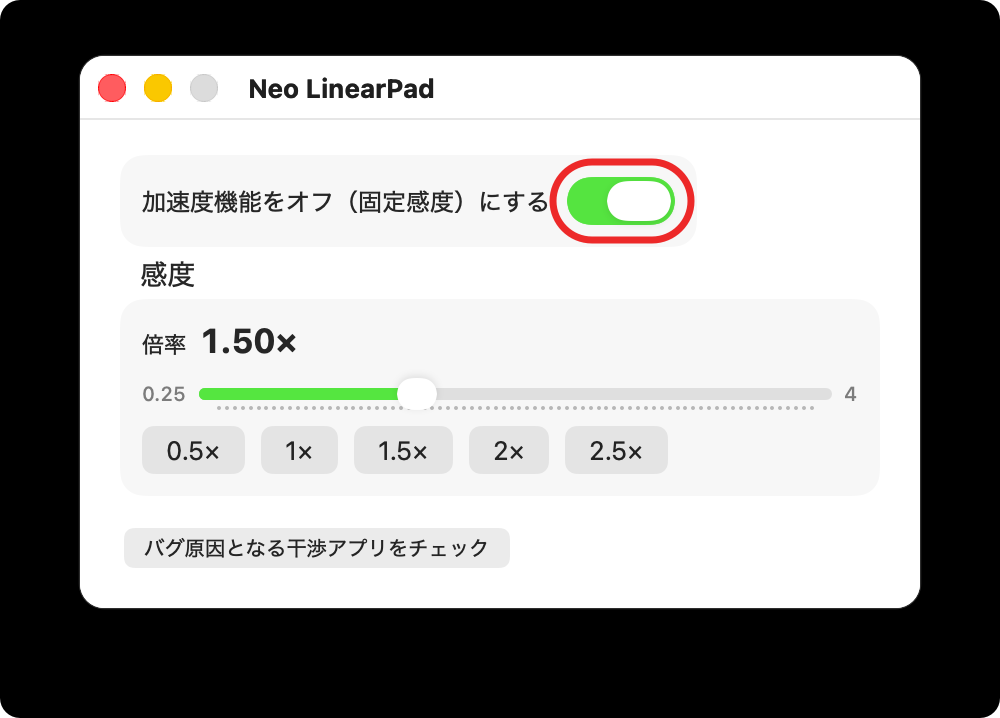
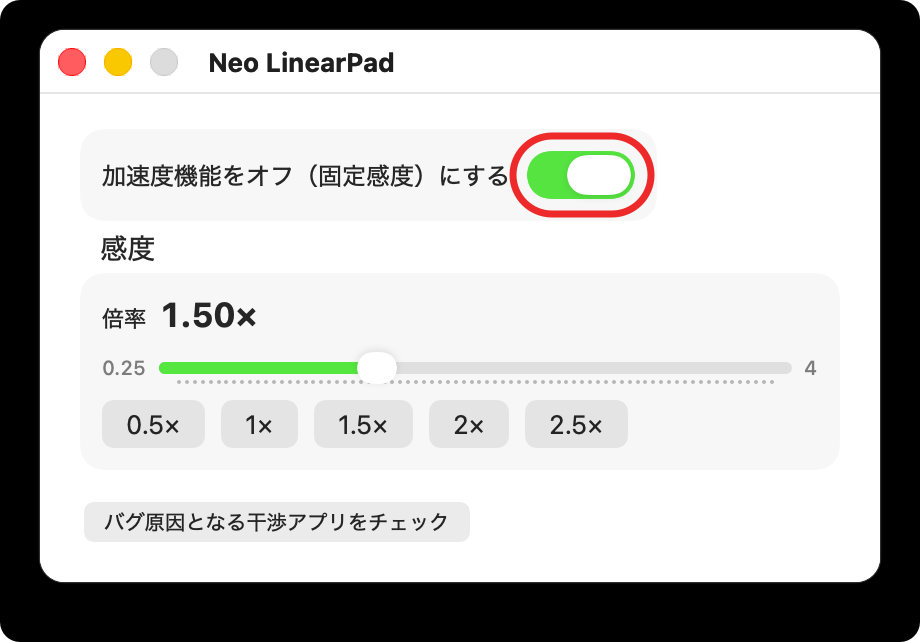
Install guide: 'PC右上' wording, tighter desktop margins around the window

diff --git a/ja/index.html b/ja/index.html
@@ -45,9 +45,9 @@
             <li>Neo LinearPad を開きます。初回だけ「インターネットからダウンロードされたアプリです」と確認が出るので、「開く」を押してください。
               <img src="../assets/guide/install-4-open.png?v=2" alt="初回起動の確認で「開く」" loading="lazy">
             </li>
-            <li>右上メニューバーに出るアイコンをクリックし、スイッチをオンにします。
+            <li>PC右上に出るアイコンをクリックし、スイッチをオンにします。
               <img src="../assets/guide/install-5-menubar.png?v=3" alt="メニューバーのアイコン" loading="lazy">
-              <img src="../assets/guide/install-5-switch.png?v=3" alt="スイッチをオンにする" loading="lazy">
+              <img src="../assets/guide/install-5-switch.png?v=4" alt="スイッチをオンにする" loading="lazy">
             </li>
           </ol>
         </div>
